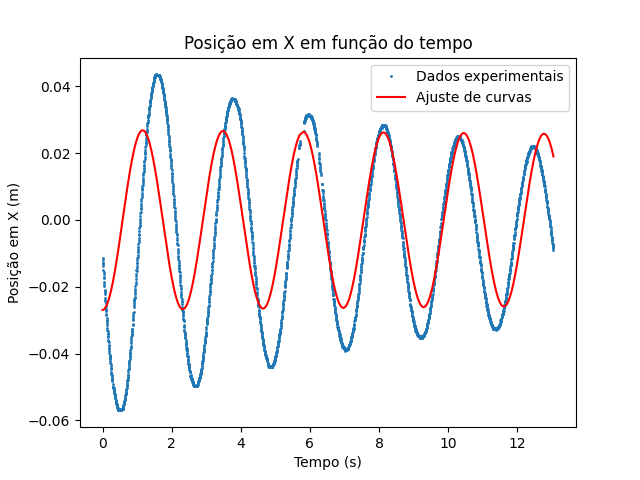
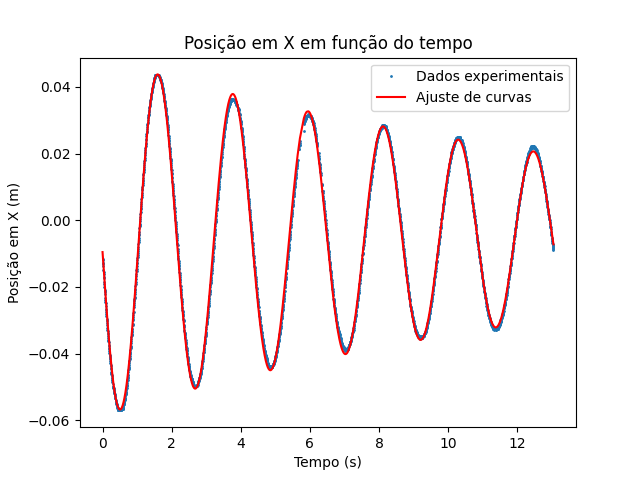
x do com dissipacao fico bonitin (oq aconteceu no y mds)

Changed region(s): [[0.1562, 0.1562, 0.6875, 0.8438], [0.6875, 0.2812, 0.875, 0.6875], [0.0625, 0.4375, 0.125, 0.4688]]

diff --git a/Tarefa2/codigo/func_seno_amortecido.py b/Tarefa2/codigo/func_seno_amortecido.py
@@ -1,6 +1,6 @@
 import numpy as np
 
-def func_seno_amortecido(t, gamma, omega, theta):
+def func_seno_amortecido(t, gamma, omega, theta, phi, c):
     return theta * np.e**(-gamma*t/2) * np.cos(
-        (1 - (gamma**2)/(4*(omega**2)))**0.5 * omega * t
-    )
+        (1 - (gamma**2)/(4*omega**2))**0.5 * omega * t + phi
+    ) + c

diff --git a/Tarefa2/codigo/plotagemDissipacao.py b/Tarefa2/codigo/plotagemDissipacao.py
@@ -25,7 +25,7 @@ posy = posy - y0
 
 def plotagemPosx():
     
-    popt, pcov = opt.curve_fit(func_seno_amortecido, tempo, posx)
+    popt, pcov = opt.curve_fit(func_seno_amortecido, tempo, posx, p0=[1, 1, 3, 0.1, 0.1])
     posxAjustada = func_seno_amortecido(tempo, *popt)
     erro = np.diag(pcov)**0.5
     with open(diretorioData + "/ajustePosx.txt", 'w') as f:
@@ -42,7 +42,7 @@ def plotagemPosx():
     plt.close()
 
 def plotagemPosy():
-    popt, pcov = opt.curve_fit(func_seno_amortecido, tempo, posy)
+    popt, pcov = opt.curve_fit(func_seno_amortecido, tempo, posy, p0=[1, .5, 6.5, 0.0001, 0])
     posyAjustada = func_seno_amortecido(tempo, *popt)
     erro = np.diag(pcov)**0.5
     with open(diretorioData + "/ajustePosy.txt", 'w') as f: